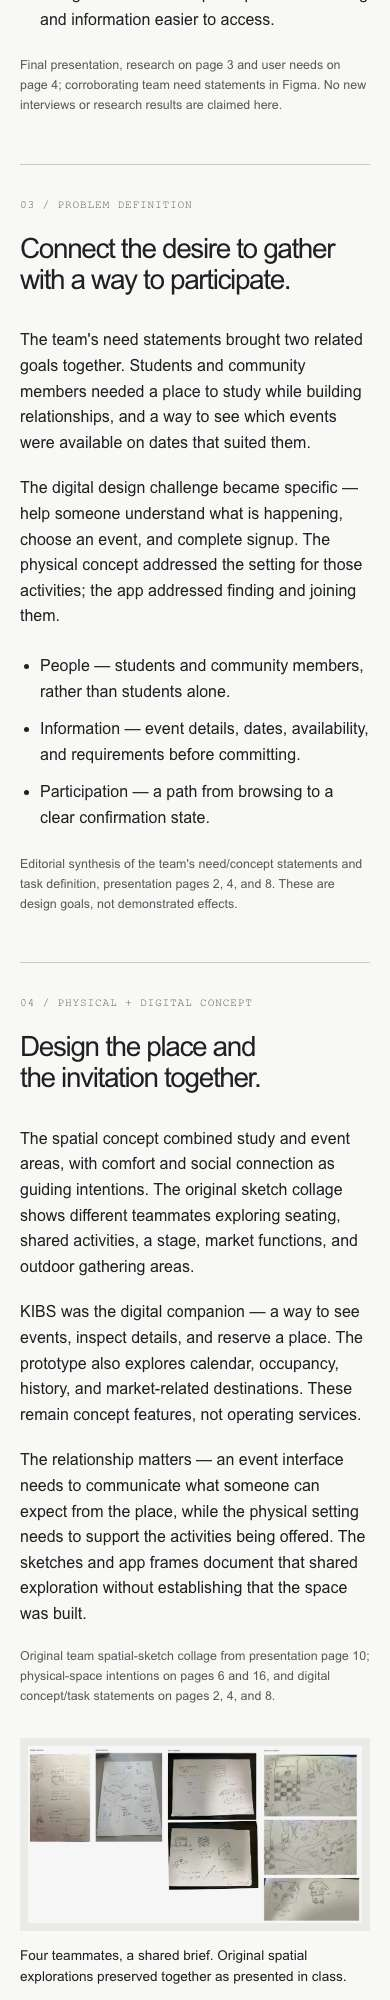
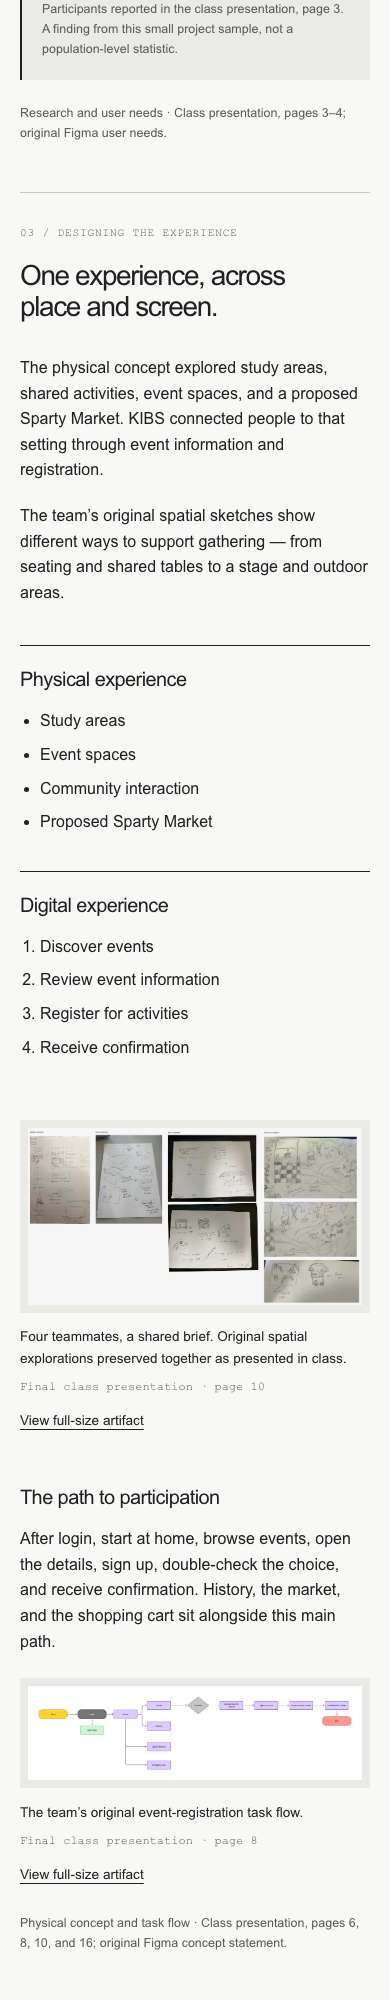
Refine Community Spaces into six recruiter-focused chapters

Changed region(s): [[0.0308, 0.0, 0.9231, 0.992]]

diff --git a/tests/browser/community-spaces.spec.ts b/tests/browser/community-spaces.spec.ts
@@ -13,13 +13,15 @@ test('homepage feature leads to the source-backed collaborative review case stud
   await expect(page.locator('meta[name="robots"]')).toHaveAttribute('content', 'noindex, nofollow');
   await expect(page.locator('.project-metadata')).toContainText('Katelyn Jewett, Illiana Gonzalez, Boran Erdogan, Suleyman Koncagul');
   await expect(page.locator('.project-metadata')).toContainText('shared across the team');
-  await expect(page.locator('#research')).toContainText('approximately 9 out of 12');
-  await expect(page.locator('#research')).toContainText('findings reported in the class materials');
-  await expect(page.locator('#outcomes')).toContainText('do not establish a public launch');
-  await expect(page.locator('#next-steps')).toContainText('proposed tasks, not completed tests');
-  await expect(page.locator('#problem-definition')).toContainText('design challenge');
-  await expect(page.locator('#physical-digital img')).toBeAttached();
-  await expect(page.locator('#reflection')).toContainText('interpretation', { ignoreCase: true });
+  const chapters = page.getByRole('navigation', { name: 'Case study sections' }).getByRole('link');
+  await expect(chapters).toHaveText(['The Challenge', 'Understanding Students', 'Designing the Experience', 'From Sketches to Screens', 'The Final Concept', 'Reflection & Next Steps']);
+  await expect(page.locator('#research')).toContainText('≈9 of 12');
+  await expect(page.locator('#research')).toContainText('not a population-level statistic');
+  await expect(page.locator('.project-status')).toContainText('Usability evaluation is proposed');
+  await expect(page.locator('#experience img')).toHaveCount(2);
+  await expect(page.locator('#reflection .next-priorities > div')).toHaveCount(3);
+  await expect(page.locator('#reflection')).toContainText('proposed next steps, not completed testing');
+  await expect(page.locator('#sources')).toContainText('Michigan State University');
   await expect(page.locator('body')).not.toContainText('www.figma.com/api/mcp/asset');
   expect((await request.get(path)).status()).toBe(200);
   expect((await request.get('/work/pure-michigan/')).status()).toBe(404);
@@ -31,11 +33,12 @@ test('case-study anchors, keyboard skip link, and return navigation work', async
   await expect(page.getByRole('link', { name: 'Skip to content' })).toBeFocused();
   await page.keyboard.press('Enter');
   await expect(page.locator('main')).toBeFocused();
-  const link = page.getByRole('navigation', { name: 'Case study sections' }).getByRole('link', { name: 'Proposed next steps' });
+  const link = page.getByRole('navigation', { name: 'Case study sections' }).getByRole('link', { name: 'Reflection & Next Steps' });
   await link.focus();
+  expect(await link.evaluate(el => getComputedStyle(el).outlineStyle)).not.toBe('none');
   await page.keyboard.press('Enter');
-  await expect(page).toHaveURL(/#next-steps$/);
-  await expect(page.locator('#next-steps h2')).toBeInViewport();
+  await expect(page).toHaveURL(/#reflection$/);
+  await expect(page.locator('#reflection h2')).toBeInViewport();
   const missing = await page.locator('a[href^="#"]').evaluateAll((links) => links.map((a) => a.getAttribute('href')!).filter((href) => !document.getElementById(href.slice(1))));
   expect(missing).toEqual([]);
   await page.getByRole('navigation', { name: 'Primary navigation' }).getByRole('link', { name: 'Work', exact: true }).click();
@@ -66,6 +69,12 @@ test('desktop and narrow layouts retain readable figures and comparison without 
     await page.setViewportSize({ width, height: 1000 });
     await page.goto(path);
     expect(await page.evaluate(() => document.documentElement.scrollWidth <= innerWidth)).toBe(true);
+    const explore = await page.locator('.showcase-explore').boundingBox();
+    const discover = await page.locator('.showcase-discover').boundingBox();
+    expect(explore).not.toBeNull();
+    expect(discover).not.toBeNull();
+    if (width <= 390) expect(explore!.y + explore!.height).toBeLessThan(discover!.y);
+    else expect(explore!.x).toBeGreaterThan(discover!.x);
     for (const img of await page.locator('main img').all()) {
       await img.scrollIntoViewIfNeeded();
       await expect(img).toHaveJSProperty('complete', true);
@@ -105,7 +114,7 @@ test('case-study navigation remains available without JavaScript and respects re
   const plain = await context.newPage();
   await plain.goto(`http://127.0.0.1:4322${path}`);
   await expect(plain.getByRole('heading', { level: 1 })).toBeVisible();
-  await plain.getByRole('navigation', { name: 'Case study sections' }).getByRole('link', { name: 'Reported research' }).click();
+  await plain.getByRole('navigation', { name: 'Case study sections' }).getByRole('link', { name: 'Understanding Students' }).click();
   await expect(plain).toHaveURL(/#research$/);
   await expect(plain.getByRole('button', { name: 'Dark mode' })).toBeHidden();
   await context.close();

diff --git a/src/styles/case-study.css b/src/styles/case-study.css
@@ -99,3 +99,34 @@
   .process-section { padding-block: 2rem 3rem; }
   .artifact-mat { padding: .5rem; }
 }
+
+/* Narrative variation stays within the approved editorial tokens. */
+.project-status { max-width: 80ch; color: var(--muted); font-size: .85rem; margin-top: 1.5rem; }
+.research-finding { border-left: 2px solid var(--ink); padding: 1.5rem 2rem; margin-top: 2rem; background: var(--artifact-mat); max-width: 40rem; }
+.finding-number { font-family: Georgia, 'Times New Roman', serif; font-size: clamp(3rem, 6vw, 5rem); line-height: 1.1; letter-spacing: -.05em; margin-bottom: 1rem; }
+.research-finding .source-note { margin-top: 1rem; }
+.experience-pair { display: grid; grid-template-columns: repeat(2, minmax(0, 1fr)); gap: 2rem; margin-block: 2.5rem; }
+.experience-pair > div { padding-block: 1.25rem; border-top: 1px solid var(--ink); }
+.experience-pair h3, .journey h3, .next-priorities h3 { font-size: 1.25rem; letter-spacing: -.03em; line-height: 1.3; }
+.experience-pair ul, .experience-pair ol { padding-left: 1.25rem; margin-bottom: 0; }
+.experience-pair li + li { margin-top: .5rem; }
+.journey { margin-top: 3rem; }
+.journey > p { max-width: 70ch; margin-block: 1rem 1.5rem; }
+.chapter-evolution { grid-template-columns: 1fr; gap: 2rem; }
+.chapter-evolution .process-heading h2 { max-width: 27ch; }
+.chapter-evolution .process-copy { max-width: 70ch; }
+.chapter-evolution .artifact-figure:not(.artifact-screen) { max-width: 50rem; margin-inline: auto; }
+.chapter-evolution .design-comparison { margin-top: 3rem; padding-top: 2rem; border-top: 1px solid var(--rule); gap: clamp(2rem, 8vw, 8rem); }
+.chapter-evolution .design-comparison > div { max-width: 393px; width: 100%; justify-self: center; }
+.chapter-reflection { grid-template-columns: 1fr; gap: 2rem; }
+.chapter-reflection .process-heading h2 { max-width: none; }
+.chapter-reflection .process-copy > p:first-child { font: clamp(1.35rem, 2.3vw, 2rem)/1.45 Georgia, 'Times New Roman', serif; letter-spacing: -.02em; }
+.next-priorities { display: grid; grid-template-columns: repeat(3, minmax(0, 1fr)); gap: 2rem; margin-top: 2.5rem; }
+.next-priorities > div { border-top: 1px solid var(--ink); padding-top: 1.25rem; }
+.next-priorities p { margin-top: 1rem; font-size: .95rem; }
+@media (max-width: 60rem) { .next-priorities { grid-template-columns: 1fr; gap: 1.5rem; } }
+@media (max-width: 40rem) {
+  .experience-pair { grid-template-columns: 1fr; gap: 1rem; }
+  .research-finding { padding: 1.25rem; }
+  .chapter-evolution .design-comparison > div { max-width: 280px; }
+}

diff --git a/src/data/community-spaces-assets.ts b/src/data/community-spaces-assets.ts
@@ -10,7 +10,7 @@ export const communityAssets = {
   space: { image: space, alt: 'Original collage of Katelyn, Illiana, Boran, and Suleyman’s physical-space sketches, exploring study seating, shared event areas, a stage, market, and outdoor gathering spaces.', caption: 'Four teammates, a shared brief. Original spatial explorations preserved together as presented in class.', source: 'Final class presentation · page 10' },
   home: { image: home, alt: 'Community Spaces prototype home screen with a calendar, illustrative occupancy count, Events button, and bottom navigation.', caption: 'Home / high fidelity. All counts and names are illustrative prototype content.', source: 'Figma · Home Page · 212:109' },
   events: { image: events, alt: 'High-fidelity Community Spaces Events screen showing study, game, coffee, and movie event entries with images, dates, descriptions, and detail arrows.', caption: 'Events / high fidelity. Event details are sample interface content.', source: 'Figma · Events Page · 214:237' },
-  confirmation: { image: confirmation, alt: 'Community Spaces registration confirmation concept with a checkmark and Continue Shopping, Add to Calendar, and Home Page actions.', caption: 'Confirmation / high fidelity. A designed state, not a record of a real registration.', source: 'Figma · Confirmation Page · 214:4' },
+  confirmation: { image: confirmation, alt: 'Community Spaces registration confirmation concept with a checkmark and Continue Shopping, Add to Calendar, and Home Page actions.', caption: 'Confirmation / high fidelity. Next actions after event registration.', source: 'Figma · Confirmation Page · 214:4' },
   midEvents: { image: midEvents, alt: 'Grayscale mid-fidelity Events wireframe with four repeated event entries, details arrows, and circular bottom navigation icons.', caption: 'Events / mid fidelity. The earlier structural layout.', source: 'Figma · Events Page · 1:5' },
   flow: { image: flow, alt: 'Team task-flow diagram: login leads to home, events, a decision, event details, signup, double check, and confirmation; home also branches to history, market, and shopping cart.', caption: 'The team’s original event-registration task flow.', source: 'Final class presentation · page 8' },
   sketch: { image: sketch, alt: 'Hand-drawn team sketch connecting login, home, events, signup, and a confirmation decision before the end of the flow.', caption: 'An original early sketch of the digital flow.', source: 'Final class presentation · page 11' },

diff --git a/src/lib/project-schema.ts b/src/lib/project-schema.ts
@@ -34,7 +34,7 @@ export const projectSchema = z.object({
       paragraphs: z.array(z.string().min(1)).min(1),
       points: z.array(z.string().min(1)).default([]),
       sourceNote: z.string().min(1),
-      media: z.enum(['flow', 'sketch', 'space', 'comparison', 'screens']).optional(),
+      media: z.array(z.enum(['flow', 'sketch', 'space', 'comparison', 'screens'])).default([]),
     })).min(1),
   }).optional(),
   evidence: z.array(evidenceSchema),

diff --git a/src/content/projects/community-spaces.md b/src/content/projects/community-spaces.md
@@ -51,106 +51,50 @@ caseStudy:
   role: Research, concept development, interaction design, and presentation — shared across the team.
   team: [Katelyn Jewett, Illiana Gonzalez, Boran Erdogan, Suleyman Koncagul]
   sections:
-    - id: context
-      kicker: 01 / Context
-      title: A community space, with a digital invitation.
+    - id: challenge
+      kicker: 01 / The Challenge
+      title: A place to gather. A way to join in.
       paragraphs:
-        - The team explored a space where college students and community members could study, socialize, and build relationships. Its digital companion was intended to make events easier to discover and provide enough information to sign up.
-        - The scope connected a physical-space concept with an app prototype. It was a class final project, not a commissioned or launched service.
-      sourceNote: Based on the final presentation, pages 2, 4, 6, and 16, and the team's Figma concept statement.
+        - Community Spaces began with two connected needs — somewhere to study and build relationships, and a way to find activities worth attending. Our team explored a shared space for students and community members, supported by a companion application called KIBS.
+        - The design challenge was to connect the place with the path to participation. Someone should be able to discover an event, understand its details, and sign up before arriving.
+      sourceNote: Project brief and need statements · Class presentation, pages 2, 4, 6, and 16; original Figma user needs.
     - id: research
-      kicker: 02 / Reported research
-      title: Social connection and access shaped the brief.
+      kicker: 02 / Understanding Students
+      title: Make room for connection.
       paragraphs:
-        - The class presentation reports a positive response to a community space for social connection and cultural exchange. It also reports that participants recommended accessible features, and that approximately 9 out of 12 wanted more entertainment involving music or concerts.
-        - These are findings reported in the class materials. The available presentation does not provide enough detail to independently assess recruitment, study procedure, or how representative those responses were. They informed the team's direction; they do not prove demand or effectiveness.
-      points:
-        - Physical need — combine opportunities to study and socialize.
-        - Digital need — see event availability on specific dates and find an event to attend.
-        - Design intent — make participation welcoming and information easier to access.
-      sourceNote: Final presentation, research on page 3 and user needs on page 4; corroborating team need statements in Figma. No new interviews or research results are claimed here.
-    - id: problem-definition
-      kicker: 03 / Problem definition
-      title: Connect the desire to gather with a way to participate.
+        - The class research reported interest in a space for social connection and cultural exchange. Participants also recommended accessible features and more entertainment involving music or concerts.
+        - These findings helped frame a concept that brought study, social activities, and events together. The digital need was more specific — see what is available on a chosen date and find an event to attend.
+      sourceNote: Research and user needs · Class presentation, pages 3–4; original Figma user needs.
+    - id: experience
+      kicker: 03 / Designing the Experience
+      title: One experience, across place and screen.
       paragraphs:
-        - The team's need statements brought two related goals together. Students and community members needed a place to study while building relationships, and a way to see which events were available on dates that suited them.
-        - The digital design challenge became specific — help someone understand what is happening, choose an event, and complete signup. The physical concept addressed the setting for those activities; the app addressed finding and joining them.
-      points:
-        - People — students and community members, rather than students alone.
-        - Information — event details, dates, availability, and requirements before committing.
-        - Participation — a path from browsing to a clear confirmation state.
-      sourceNote: Editorial synthesis of the team's need/concept statements and task definition, presentation pages 2, 4, and 8. These are design goals, not demonstrated effects.
-    - id: physical-digital
-      kicker: 04 / Physical + digital concept
-      title: Design the place and the invitation together.
+        - The physical concept explored study areas, shared activities, event spaces, and a proposed Sparty Market. KIBS connected people to that setting through event information and registration.
+        - The team’s original spatial sketches show different ways to support gathering — from seating and shared tables to a stage and outdoor areas.
+      media: [space, flow]
+      sourceNote: Physical concept and task flow · Class presentation, pages 6, 8, 10, and 16; original Figma concept statement.
+    - id: evolution
+      kicker: 04 / From Sketches to Screens
+      title: Give the journey structure, then character.
       paragraphs:
-        - The spatial concept combined study and event areas, with comfort and social connection as guiding intentions. The original sketch collage shows different teammates exploring seating, shared activities, a stage, market functions, and outdoor gathering areas.
-        - KIBS was the digital companion — a way to see events, inspect details, and reserve a place. The prototype also explores calendar, occupancy, history, and market-related destinations. These remain concept features, not operating services.
-        - The relationship matters — an event interface needs to communicate what someone can expect from the place, while the physical setting needs to support the activities being offered. The sketches and app frames document that shared exploration without establishing that the space was built.
-      media: space
-      sourceNote: Original team spatial-sketch collage from presentation page 10; physical-space intentions on pages 6 and 16, and digital concept/task statements on pages 2, 4, and 8.
-    - id: task-flow
-      kicker: 05 / Task flow
-      title: From discovering an event to confirming a place.
+        - Early sketches connected login, home, events, signup, and confirmation. Working through this sequence gave the team a structure for the digital experience before adding visual detail.
+        - The mid-fidelity event list organized repeated entries and navigation. The high-fidelity design added event imagery, stronger contrast, and the team’s original color palette while keeping event browsing central. The vibrant direction reflected the welcoming space the team envisioned.
+      media: [sketch, comparison]
+      sourceNote: Digital sketch and design progression · Class presentation, pages 9 and 11–14; original Figma Events frames, 1:5 and 214:237.
+    - id: concept
+      kicker: 05 / The Final Concept
+      title: Discover. Explore. Take part.
       paragraphs:
-        - The team's task flow centered on finding an event and signing up. After login and home, the main path moves through the event list, event details, signup, a double-check step, and confirmation. History, the market, and the shopping cart appear as adjacent destinations.
-        - This makes the intended interaction sequence visible. Whether people understand each step without assistance remains a question for future testing.
-      media: flow
-      sourceNote: Original task-flow image extracted from the final presentation, page 8. The text above provides the diagram's main path without requiring readers to decipher the image.
-    - id: exploration
-      kicker: 06 / Early exploration
-      title: Start with the sequence, then shape the screens.
-      paragraphs:
-        - The presentation includes hand-drawn sketches of the space and the digital flow. The sketch shown here connects login, home, events, signup, and confirmation before visual styling is added.
-        - It records the team's exploration of structure. The available materials do not establish which alternatives were tested with users or why each option was rejected.
-      media: sketch
-      sourceNote: Authentic sketch extracted from the final presentation, page 11. It is presented as team work, without assigning individual authorship.
-    - id: design-development
-      kicker: 07 / Design evolution
-      title: From grayscale structure to a colorful invitation.
-      paragraphs:
-        - The mid-fidelity event list establishes repeated event entries and navigation. The later high-fidelity version adds event imagery, stronger visual contrast, and the team's color palette. Both retain event browsing as a central task.
-        - The class presentation describes a desire for a vibrant, welcoming space and app. This comparison documents visible design changes; it does not claim those changes improved usability, accessibility, or registration rates.
-      media: comparison
-      sourceNote: Original Events Page frames from the supplied Figma file, nodes 1:5 and 214:237. Design-stage order is supported by the presentation, pages 12–14; color intent appears on page 9.
-    - id: prototype
-      kicker: 08 / Final deliverables
-      title: A connected set of prototype touchpoints.
-      paragraphs:
-        - The high-fidelity home screen introduces the calendar and an event entry point. The event list provides descriptions and dates. The confirmation screen offers actions to return home, continue browsing, or add an event to a calendar.
-        - These are authentic prototype screens. Names, dates, building occupancy, and availability shown inside them are illustrative interface content, not evidence of live events, a deployed system, or observed outcomes.
-      points:
-        - A physical-space concept supported by team sketches and a final presentation.
-        - User-need and concept statements connecting study, social connection, and event discovery.
-        - A task flow and design progression from sketches through mid-fidelity and high-fidelity wireframes.
-        - Prototype screens covering home, event browsing, event details, reservation, a double-check step, and confirmation.
-      media: screens
-      sourceNote: Supplied Figma frames 212:109 (Home Page), 214:237 (Events Page), and 214:4 (Confirmation Page).
-    - id: outcomes
-      kicker: 09 / Outcome and limits
-      title: A developed concept. Validation is still ahead.
-      paragraphs:
-        - The available work includes need statements, a task flow, sketches, wireframes, a high-fidelity prototype, and a final class presentation. Together they show how the team developed a connected physical and digital concept.
-        - The materials do not establish a public launch or usability testing that demonstrated improvements. The presentation's attendance, scholarship, and academic benchmarks are proposed measures, not achieved outcomes. No increase in participation, accessibility, or academic performance is claimed.
-      sourceNote: Final presentation, pages 7–16. Artifact completion is distinguished from service impact.
+        - The final concept connects a proposed community space with an event-registration prototype. The home screen introduces a calendar and an entry point to events. The event list provides dates and descriptions, while confirmation offers a way to return home, keep browsing, or add the event to a calendar.
+        - Together, the spatial sketches, user-need statements, task flow, wireframes, and high-fidelity screens document the team’s physical and digital concept.
+      media: [screens]
+      sourceNote: Original Figma Home, Events, and Confirmation frames · 212:109, 214:237, and 214:4; final class presentation.
     - id: reflection
-      kicker: 10 / Reflection
-      title: The connection is the design opportunity.
+      kicker: 06 / Reflection & Next Steps
+      title: Designing beyond the screen.
       paragraphs:
-        - Read together, the artifacts show more than an event list — they connect a proposed place, activities, and the decisions needed to take part. The task flow provides a useful thread for telling that story from early sketches to final screens.
-        - The next challenge is to examine the assumptions between those screens. An availability label, membership choice, and confirmation message each need to be understood in context. A polished prototype makes those questions tangible, but cannot answer them by itself.
-        - Shared contribution is central to this account. The spatial and digital explorations belong to the four-person team; this portfolio presents that collaboration without assigning a separate lead role or inventing personal learning outcomes.
-      sourceNote: Portfolio reflection on the supplied artifacts and owner-confirmed shared contribution. This is interpretation, not a new research finding or completed evaluation.
-    - id: next-steps
-      kicker: 11 / Proposed next steps
-      title: Test the path to participation.
-      paragraphs:
-        - Future evaluation could ask students and community members to find a suitable event, understand its requirements, reserve a place, and interpret confirmation. These are proposed tasks, not completed tests.
-      points:
-        - Observe where people hesitate, misinterpret availability, or need help recovering from an error.
-        - Evaluate screen-reader and keyboard access, contrast, target sizes, and non-color status cues before implementation.
-        - Include students and community members with varied access needs, with consent and appropriate privacy safeguards.
-        - Revisit whether login is necessary before browsing and how a full, canceled, or rescheduled event should be communicated.
-      sourceNote: Portfolio reflection and proposed evaluation, added for this case study; not research reported by the class.
+        - Community Spaces explored how digital interactions could support real-world connections. By designing the physical environment and its companion application together, our team considered the experience from discovering an event to participating in a shared space.
+        - The next step would be to evaluate how people move through that journey and how well the concept supports different access needs. These are proposed next steps, not completed testing.
+      sourceNote: Project-level reflection and proposed evaluation priorities.
 ---
-Community Spaces is a collaborative class concept and prototype. This review page uses supplied project artifacts and reported class findings. It does not claim a launched service or demonstrated usability gains.
+Community Spaces is a collaborative university concept and prototype.

diff --git a/docs/COMMUNITY_SPACES.md b/docs/COMMUNITY_SPACES.md
@@ -88,3 +88,13 @@ The case study now explicitly covers context, reported research, problem definit
 Full-page review captures: [desktop](previews/community-spaces/full-page/desktop.md) and [mobile](previews/community-spaces/full-page/mobile.md). Each contains consecutive capture strips from top to footer because a single long screenshot exceeds the connector's upload limit. Full-resolution single PNGs are delivered in chat.
 
 Validation: Astro/TypeScript check and static build passed; 7 content/provenance tests passed; all 13 browser behaviors passed after updating the shared-attribution assertion and fixing the screenshot capture bounds. Automated light/dark/mobile accessibility and 320/390/768/1440px overflow checks passed. Full-page and section screenshots were visually reviewed. The browser suite's original assertion expected superseded copy; it was corrected to check the retained shared contribution. Screenshot-strip clipping was a capture setup error, not page overflow. Manual screen-reader and broader browser/device audits remain pending. Nothing merged or deployed.
+
+## Recruiter storytelling refinement — 2026-10-16
+
+Focused refinement on the existing branch and draft PR #3. The approved hero, system tokens, navigation, homepage, seven source images, and original screen colors remain unchanged. Eleven narrative sections are now six chapters: The Challenge; Understanding Students; Designing the Experience; From Sketches to Screens; The Final Concept; Reflection & Next Steps. The table of contents follows that structure.
+
+Copy now emphasizes the design challenge, decisions, and connected physical/digital experience. Repeated methodological disclaimers are replaced by one concise project-status note and a sample-specific note accompanying the approximately 9-of-12 music/concert finding. Provenance records remain intact. A physical/digital comparison, plain-language journey beside the original flow, wider sketch/comparison chapter, and project-level reflection vary the visual rhythm. The three evaluation priorities are explicitly proposed. Credits use the owner's exact four-person attribution and MSU context; original resources and concise third-party acknowledgments remain. No individual lead, new research, delivered business impact, or launch is asserted. No raw participant responses were added.
+
+Executed after final source changes: `pnpm run check` (0 errors, warnings, hints), `pnpm run build`, `pnpm run test:content` (7 passed), and `pnpm test` (13 passed). Axe reported zero violations in tested light/dark/mobile states. Chromium layout checks cover 1440, 768, 390, and 320px without horizontal overflow, original image proportions/alt descriptions, intentional mobile hero placement, six chapter anchors, visible keyboard focus/skip navigation, no-JavaScript use, and reduced motion. Updated full-page [desktop](previews/community-spaces/full-page/desktop.md) and [mobile](previews/community-spaces/full-page/mobile.md) captures accompany this change. Visual inspection covered research, comparison, physical/digital layout, final screens, reflection, and credits. Automated checks are not a conformance certification.
+
+Outstanding: owner editorial review; project date/term; underlying research-method detail; embedded third-party photo/icon rights before public launch; manual screen-reader, broader-browser, real-device, and performance review. PR remains stacked on PR #2 and draft. Review-only/noindex remains. Nothing merged, deployed, or changed in the old portfolio.

diff --git a/docs/previews/community-spaces/full-page/desktop.md b/docs/previews/community-spaces/full-page/desktop.md
@@ -1,23 +1,21 @@
-# Full-page desktop review capture
+# Community Spaces — desktop, six-chapter refinement
 
-Viewport width: 1440px. Consecutive, unedited browser-capture strips cover the entire page from navigation to footer. Split only to fit the GitHub connector transport limit. The single-image full-resolution capture is also delivered in chat.
+Full-page browser capture at 1440px. Consecutive strips preserve the complete page from navigation to footer. Review capture only; not research evidence.
 
-![desktop capture 01](community-full-1440-part-01.jpg)
+![desktop section 1](community-full-1440-part-01.jpg)
 
-![desktop capture 02](community-full-1440-part-02.jpg)
+![desktop section 2](community-full-1440-part-02.jpg)
 
-![desktop capture 03](community-full-1440-part-03.jpg)
+![desktop section 3](community-full-1440-part-03.jpg)
 
-![desktop capture 04](community-full-1440-part-04.jpg)
+![desktop section 4](community-full-1440-part-04.jpg)
 
-![desktop capture 05](community-full-1440-part-05.jpg)
+![desktop section 5](community-full-1440-part-05.jpg)
 
-![desktop capture 06](community-full-1440-part-06.jpg)
+![desktop section 6](community-full-1440-part-06.jpg)
 
-![desktop capture 07](community-full-1440-part-07.jpg)
+![desktop section 7](community-full-1440-part-07.jpg)
 
-![desktop capture 08](community-full-1440-part-08.jpg)
+![desktop section 8](community-full-1440-part-08.jpg)
 
-![desktop capture 09](community-full-1440-part-09.jpg)
-
-![desktop capture 10](community-full-1440-part-10.jpg)
+![desktop section 9](community-full-1440-part-09.jpg)

diff --git a/docs/previews/community-spaces/full-page/mobile.md b/docs/previews/community-spaces/full-page/mobile.md
@@ -1,21 +1,17 @@
-# Full-page mobile review capture
+# Community Spaces — mobile, six-chapter refinement
 
-Viewport width: 390px. Consecutive, unedited browser-capture strips cover the entire page from navigation to footer. Split only to fit the GitHub connector transport limit. The single-image full-resolution capture is also delivered in chat.
+Full-page browser capture at 390px. Consecutive strips preserve the complete page from navigation to footer. Review capture only; not research evidence.
 
-![mobile capture 01](community-full-390-part-01.jpg)
+![mobile section 1](community-full-390-part-01.jpg)
 
-![mobile capture 02](community-full-390-part-02.jpg)
+![mobile section 2](community-full-390-part-02.jpg)
 
-![mobile capture 03](community-full-390-part-03.jpg)
+![mobile section 3](community-full-390-part-03.jpg)
 
-![mobile capture 04](community-full-390-part-04.jpg)
+![mobile section 4](community-full-390-part-04.jpg)
 
-![mobile capture 05](community-full-390-part-05.jpg)
+![mobile section 5](community-full-390-part-05.jpg)
 
-![mobile capture 06](community-full-390-part-06.jpg)
+![mobile section 6](community-full-390-part-06.jpg)
 
-![mobile capture 07](community-full-390-part-07.jpg)
-
-![mobile capture 08](community-full-390-part-08.jpg)
-
-![mobile capture 09](community-full-390-part-09.jpg)
+![mobile section 7](community-full-390-part-07.jpg)
